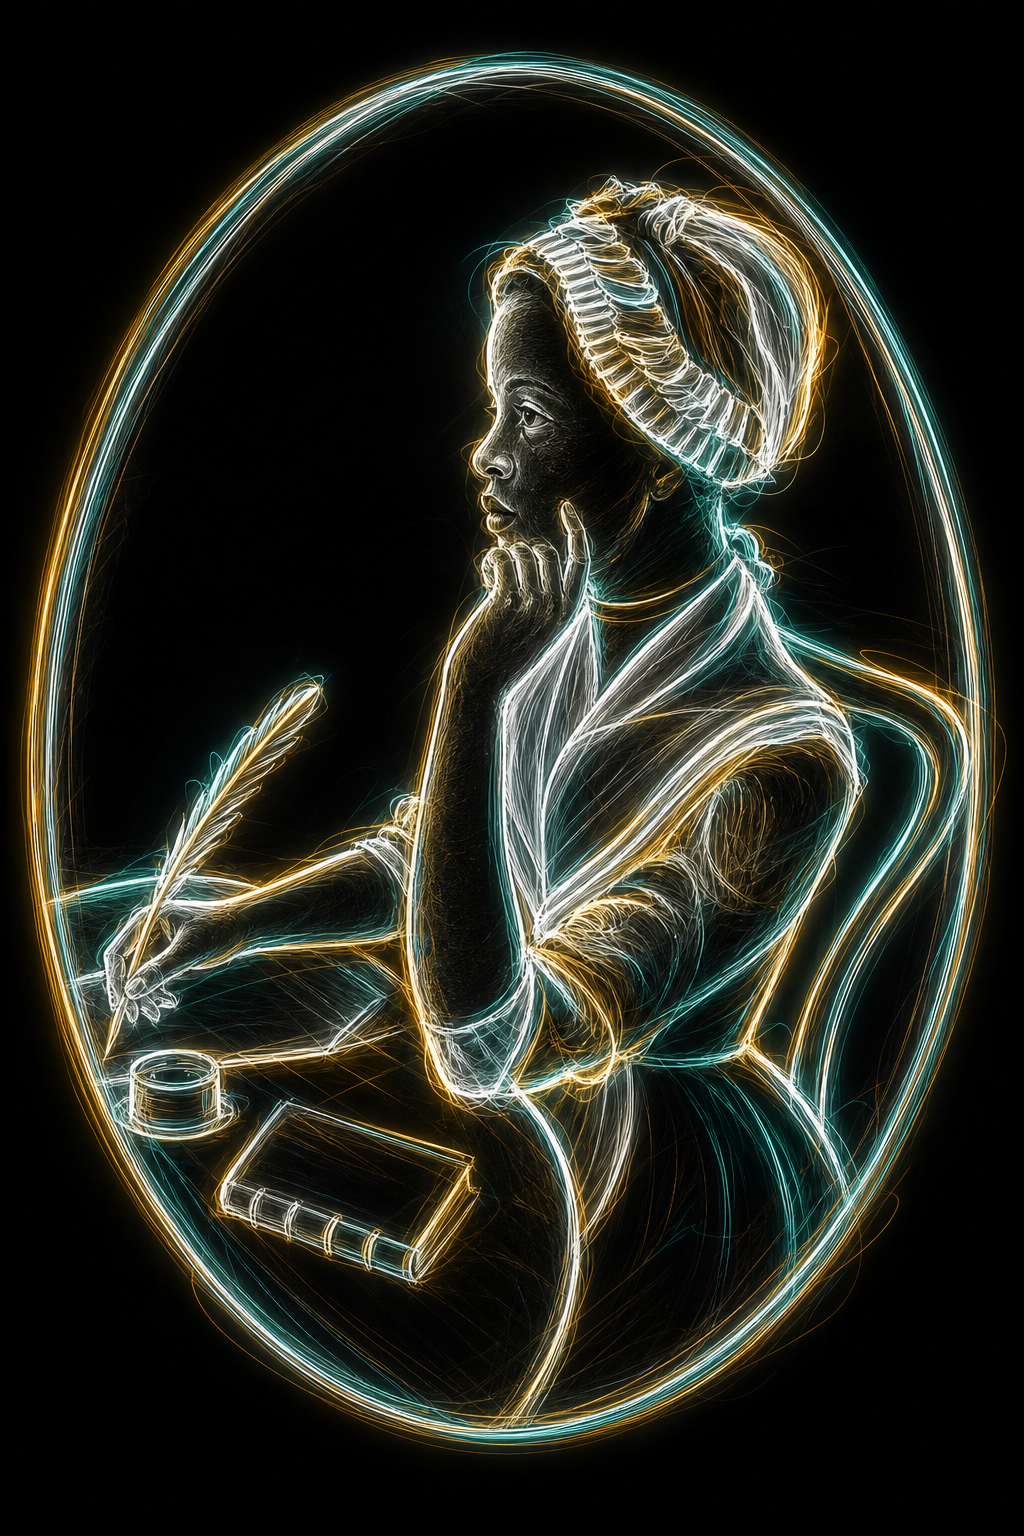
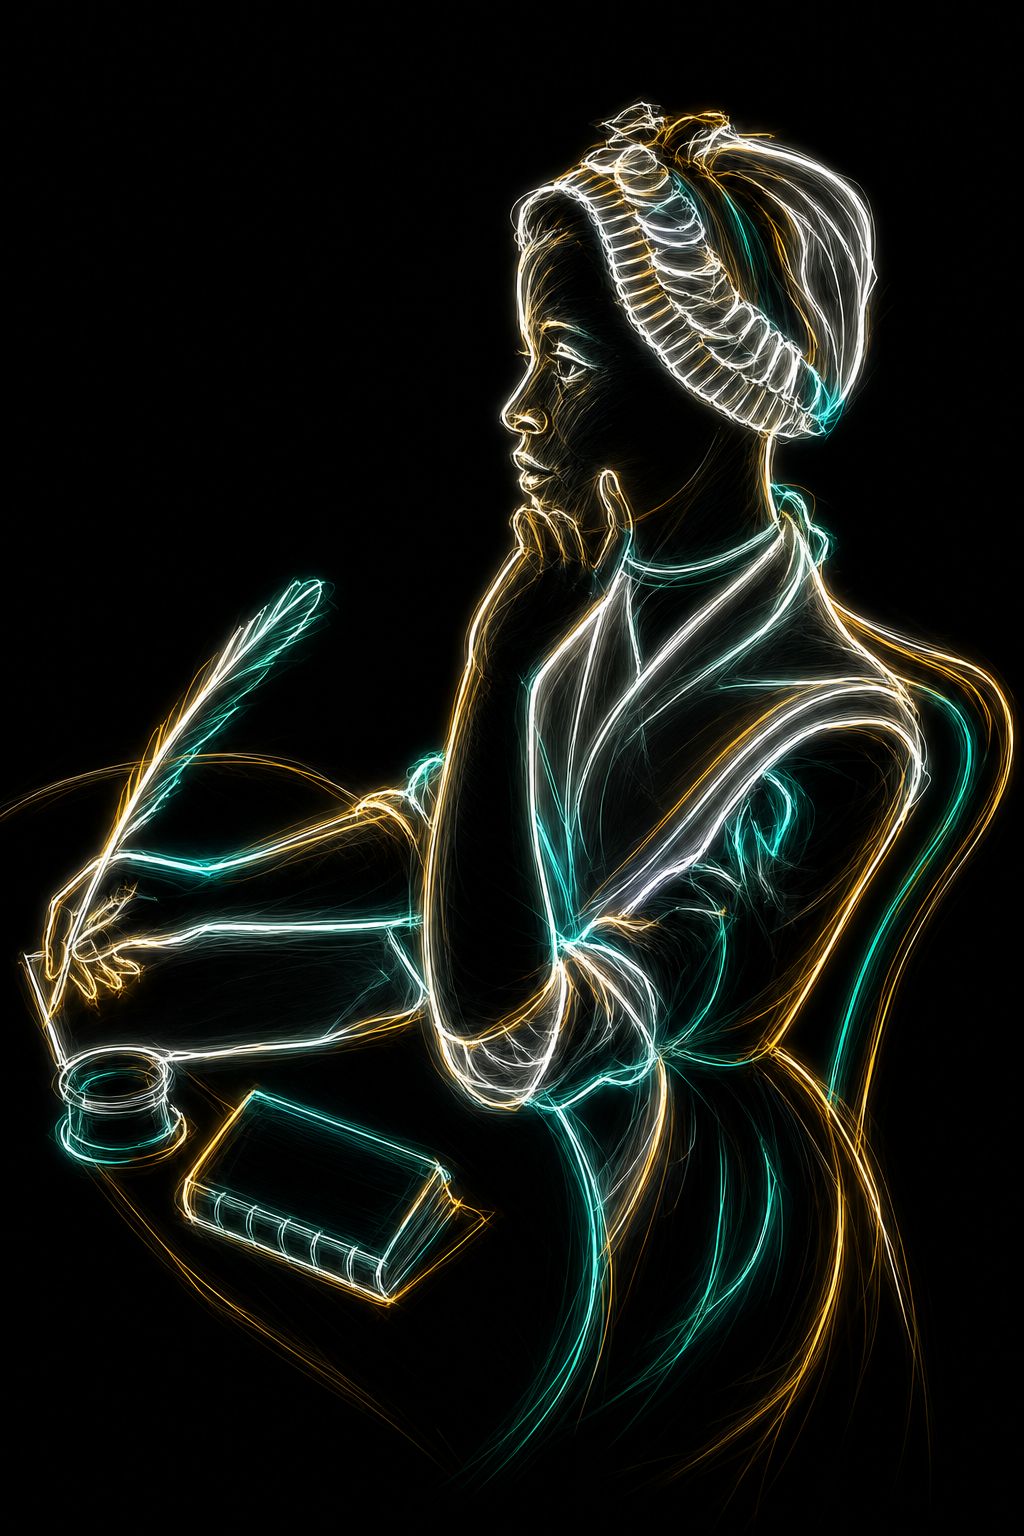
Stop portrait generation from reproducing source frames
Historical source images (e.g. the oval-framed Phillis Wheatley
frontispiece engraving) were being faithfully rendered with their
decorative frame intact, because the style-transfer prompt only told
the model to preserve "composition and framing" and never forbade a
decorative surround.

Add an explicit borderless instruction to the dual-image prompt and
reword the ambiguous "framing" line to "crop", then regenerate the
affected Phillis Wheatley portrait without its oval frame.

Claude-Session: https://claude.ai/code/session_015iJ3Ju7BfBteoYVfnZCBML

diff --git a/scripts/generate_person_portrait.py b/scripts/generate_person_portrait.py
@@ -850,9 +850,15 @@ CRITICAL - PRESERVE EXACTLY from SECOND IMAGE:
 - Expression and gaze direction EXACTLY as shown
 - Head pose, tilt, and angle EXACTLY as shown
 - Body position, shoulder orientation, and posture
-- Composition and framing (head size relative to frame)
+- Composition and crop (head size relative to the image edges)
 - The person must be IMMEDIATELY recognizable as the same individual
 - Hair style and clothing silhouette
+
+NO FRAME OR BORDER - the portrait must be borderless:
+- Do NOT draw any frame, border, oval, vignette, cartouche, medallion, or decorative surround around the subject
+- If the SECOND IMAGE is enclosed in an oval or rectangular frame (common in historical engravings and paintings), IGNORE that frame entirely — render only the person against the plain dark background
+- The luminous light strokes belong to the person, their clothing, and hair ONLY — never an enclosing outline or edge treatment
+- The background must extend uninterrupted to all four edges of the output with no ring, arch, ellipse, or containing shape
 
 ARTISTIC TREATMENT - Apply from FIRST IMAGE:
 - Light-drawing / light-painting aesthetic (glowing strokes in darkness)
@@ -876,7 +882,7 @@ OUTPUT FORMAT:
 - Match the composition scale from SECOND IMAGE
 - The portrait is "sketched" entirely with glowing light strokes against darkness
 
-REMEMBER: The SECOND IMAGE provides the pose, likeness, and composition. The FIRST IMAGE provides only the artistic style. The result must look like the person from the SECOND IMAGE rendered in the style of the FIRST IMAGE."""
+REMEMBER: The SECOND IMAGE provides the pose, likeness, and composition. The FIRST IMAGE provides only the artistic style. The result must look like the person from the SECOND IMAGE rendered in the style of the FIRST IMAGE, with NO frame, border, or oval surround."""
 
                     # Pass both images as file objects in a list
                     # Open files and keep references to close them properly
